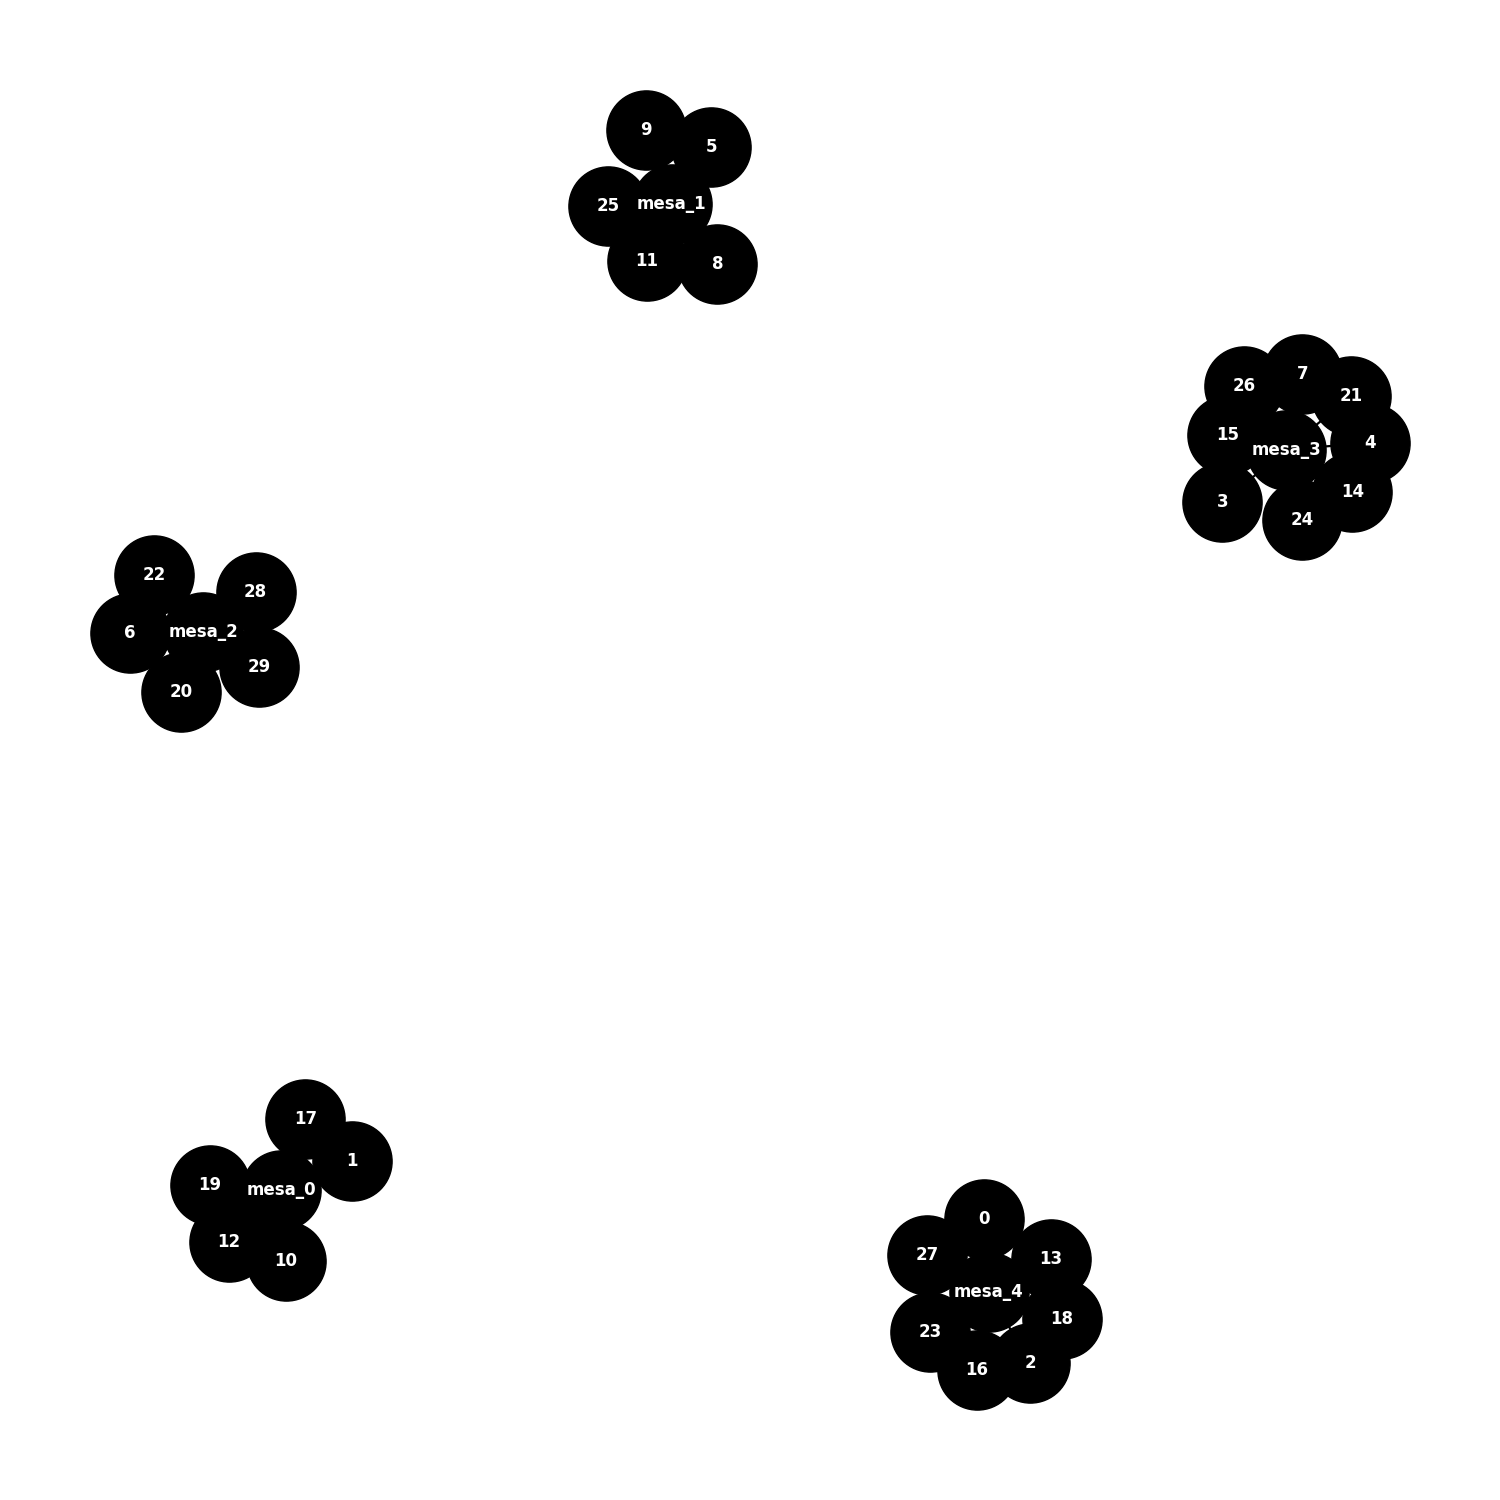
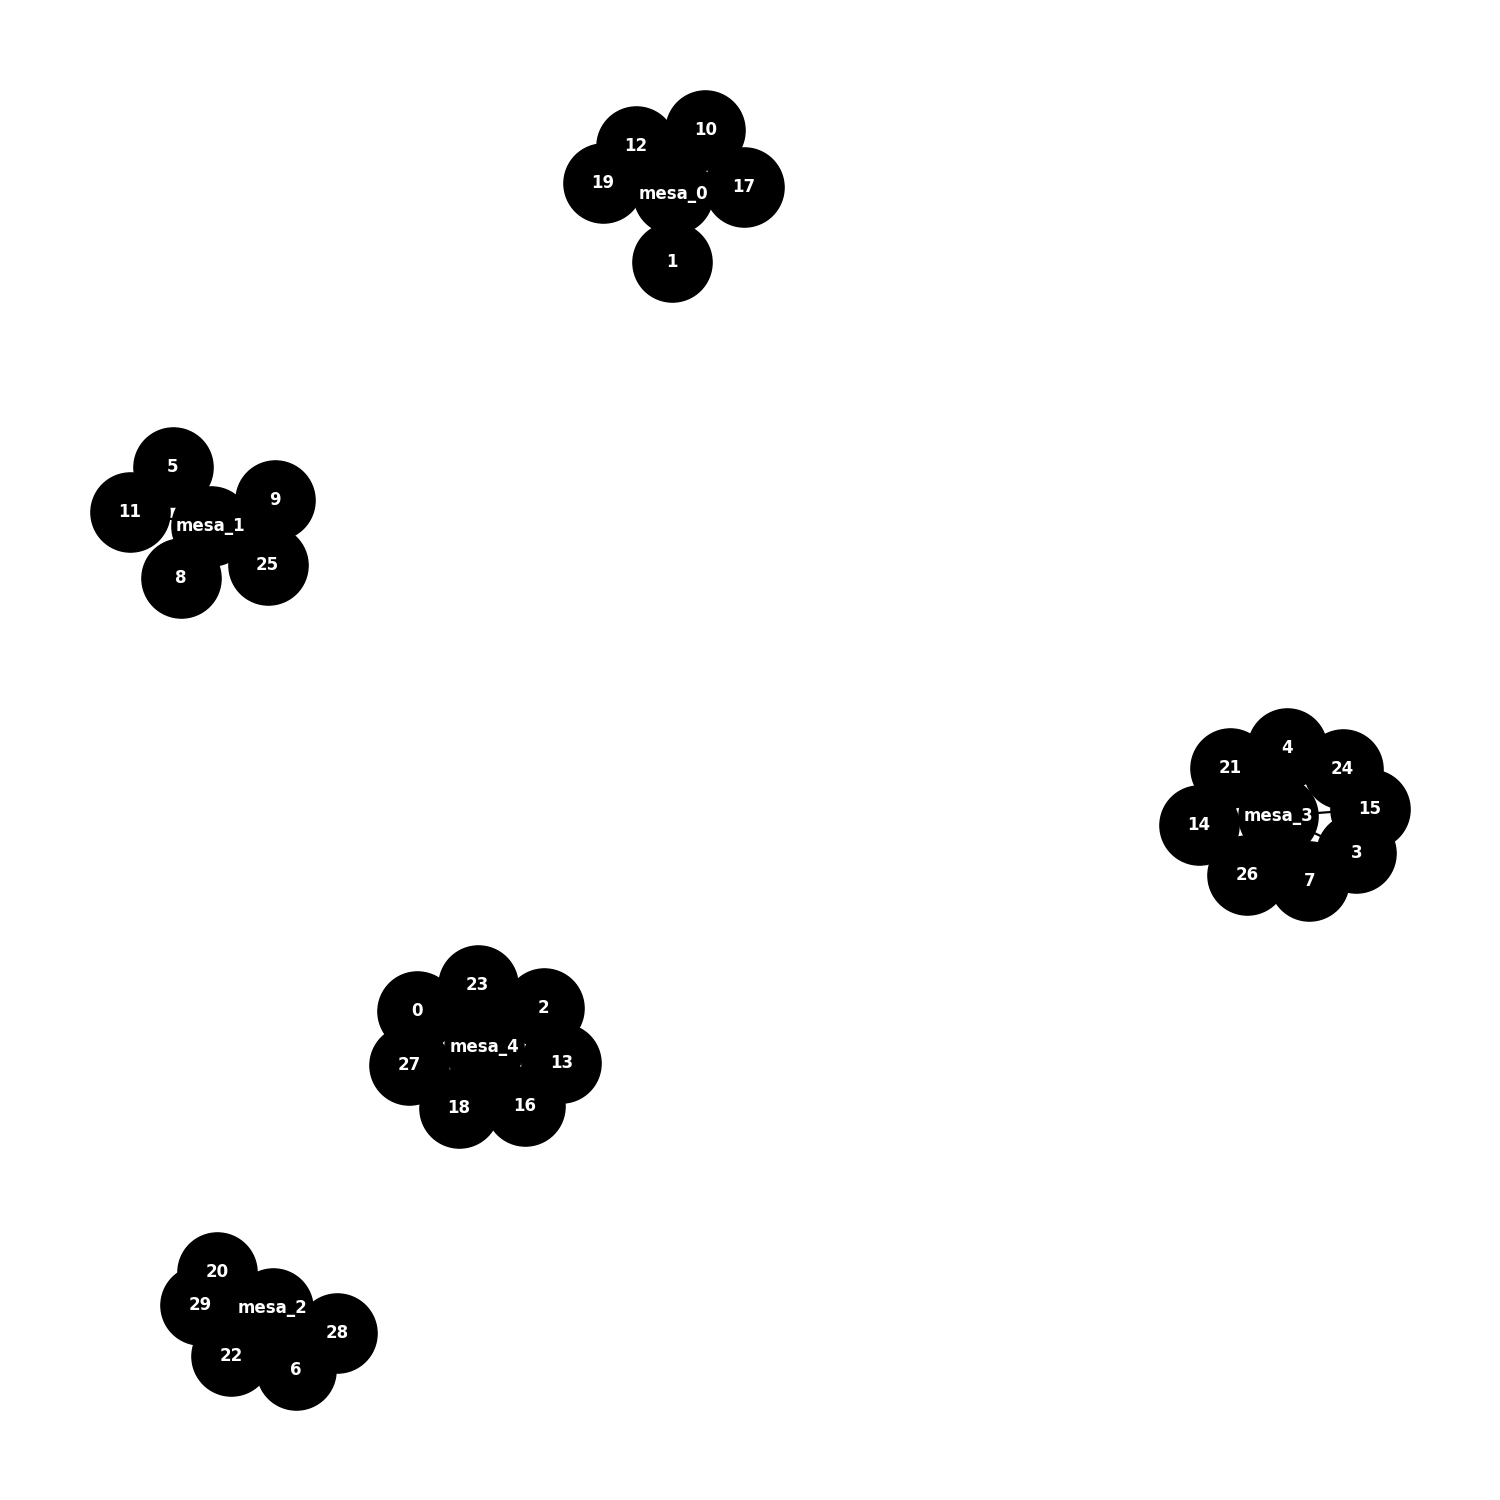
otimizações swap e reinsertion

diff --git a/src/funtion_movimento_vizinhanca.py b/src/funtion_movimento_vizinhanca.py
@@ -48,7 +48,7 @@ def swap_solution(main, matrix_afinidade):
   return copia_reserved.copy()
 
 
-def Reinsertion(main, matrix_afinidade):
+def ReInsertion(main, matrix_afinidade):
   copia = main.copy()
   solucao_swap = solution(copia,matrix_afinidade)
   solucao_inicial = solucao_swap
@@ -89,5 +89,94 @@ def Reinsertion(main, matrix_afinidade):
           copia.add_edge(i,j)
 
 
-  print(f'solução inicial =  {solucao_inicial}, solucao encontrada (Reinsertion) = {solucao_swap}')
+  # print(f'solução inicial =  {solucao_inicial}, solucao encontrada (Reinsertion) = {solucao_swap}')
   return swamp_mesa_result.copy()
+
+
+def swap (grafo,matrix_afinidade):
+  copia = grafo.copy()
+  melhor_solucao = 0
+  ja_passou = []
+  for i in list(copia.nodes()):
+    if (not isinstance(i, str)):
+      break
+    for j in nodes_edg(i,copia):
+      for k in list(copia.nodes()):
+        if (not isinstance(k, str)):
+          break
+        if (i==k):
+          continue
+        for t in nodes_edg(k,copia):
+          if ((j,t) in ja_passou or (t,j) in ja_passou):
+            continue
+          beneficio = 0
+          # print(f"[{i}][{j}][{k}][{t}]",end=" ")
+          mesa_1 = list(copia.neighbors(i))
+          mesa_2 = list(copia.neighbors(k))
+          removido1 = mesa_1.pop(mesa_1.index(j))
+          removido2 = mesa_2.pop(mesa_2.index(t))
+          beneficio = beneficio - afin_mesa_local(removido1,mesa_1,matrix_afinidade) - afin_mesa_local(removido2,mesa_2,matrix_afinidade) + afin_mesa_local(removido2,mesa_1,matrix_afinidade) + afin_mesa_local(removido1,mesa_2,matrix_afinidade)
+          
+          tuplas = (j,t)
+          ja_passou.append(tuplas)
+
+          if (beneficio > melhor_solucao):
+            melhor_solucao = beneficio
+            melhor_indice = (i,j,k,t)
+
+  if(melhor_solucao):
+    copia.remove_edge(melhor_indice[0],melhor_indice[1])
+    copia.remove_edge(melhor_indice[2],melhor_indice[3])
+    
+    copia.add_edge(melhor_indice[0],melhor_indice[3])
+    copia.add_edge(melhor_indice[2],melhor_indice[1])
+
+    # print(f"melhor solução encontrada = {solution(copia,matrix_afinidade)}")
+    return copia.copy()
+  else:
+    return copia.copy()
+
+
+
+def Reinsertion (grafo,matrix_afinidade):
+  copia = grafo.copy()
+  melhor_solucao = 0
+  ja_passou = []
+  for i in list(copia.nodes()):
+    if (not isinstance(i, str)):
+      break
+    if (get_quantidade_alocada(i,copia)-1<int(copia.nodes[i]["menorCadeira"])):
+      continue
+    for j in nodes_edg(i,copia):
+      for k in list(copia.nodes()):
+        if (not isinstance(k, str)):
+          break
+        if (i==k):
+          continue
+        if (get_quantidade_alocada(k,copia)+1>int(copia.nodes[k]["maiorCadeira"])):
+          break
+
+        beneficio = 0
+        # print(f"[{i}][{j}][{k}]",end=" ")
+        mesa_1 = list(copia.neighbors(i))
+        mesa_2 = list(copia.neighbors(k))
+        removido1 = mesa_1.pop(mesa_1.index(j))
+        beneficio = beneficio - afin_mesa_local(removido1,mesa_1,matrix_afinidade) + afin_mesa_local(removido1,mesa_2,matrix_afinidade)
+        
+
+
+        if (beneficio > melhor_solucao):
+          # print(beneficio)
+          melhor_solucao = beneficio
+          melhor_indice = (i,j,k)
+
+  if(melhor_solucao):
+    copia.remove_edge(melhor_indice[0],melhor_indice[1])
+    
+    copia.add_edge(melhor_indice[2],melhor_indice[1])
+
+    # print(f"melhor solução encontrada = {solution(copia,matrix_afinidade)}")
+    return copia.copy()
+  else:
+    return copia.copy()
+

diff --git a/src/vnd.py b/src/vnd.py
@@ -6,21 +6,21 @@ def VND (mesa,matrix_afinidade):
   k = 1
   while (k<=r):
     if (k == 1):
-      copia_VND = swap_solution(mesa,matrix_afinidade )
-    elif (k==2):
       copia_VND = Reinsertion(mesa,matrix_afinidade)
+    elif (k==2):
+      copia_VND = swap(mesa,matrix_afinidade)
 
 
 
     if (solution(copia_VND,matrix_afinidade)>solution(mesa,matrix_afinidade)):
-      if(k==2):
-        print("swap encontrou uma solução melhor, voltando ao Reinsertion")
+      # if(k==2):
+        # print("swap encontrou uma solução melhor, voltando ao Reinsertion")
       mesa = copia_VND.copy()
       k = 1
     else:
-      if (k==1):
-        print("Não obteve melhora, passando para o proximo")
-      elif(k+1>r):
-        print("Encontrou uma solução")
+      # if (k==1):
+        # print("Não obteve melhora, passando para o proximo")
+      # elif(k+1>r):
+        # print("Encontrou uma solução")
       k +=1
   return mesa.copy()

diff --git a/src/function_tratamentos.py b/src/function_tratamentos.py
@@ -1,10 +1,7 @@
+
+
 def get_quantidade_alocada(nome_mesa,grafo):
-    contador = 0
-    mesa_brut = list(grafo.edges)
-    for n in list(grafo.edges):
-      if (n.count(nome_mesa)):
-        contador +=1
-    return contador
+    return grafo.degree(nome_mesa)
 
 def get_mesa(indice,grafo):
     mesa_brut = list(grafo.edges)
@@ -40,3 +37,14 @@ def Matriz_afinidade (festinhaFelas,quant_convidados):
 
         matrix_afinidade.append(afinidade_list)
     return matrix_afinidade
+
+def afin_mesa_local(removido,lista_pessoas_sentadas,matrix_afinidade):
+  afinidade = 0
+
+  for j in lista_pessoas_sentadas:
+    if (j==removido):
+      continue
+
+    afinidade += matrix_afinidade[removido][j]
+
+  return afinidade
